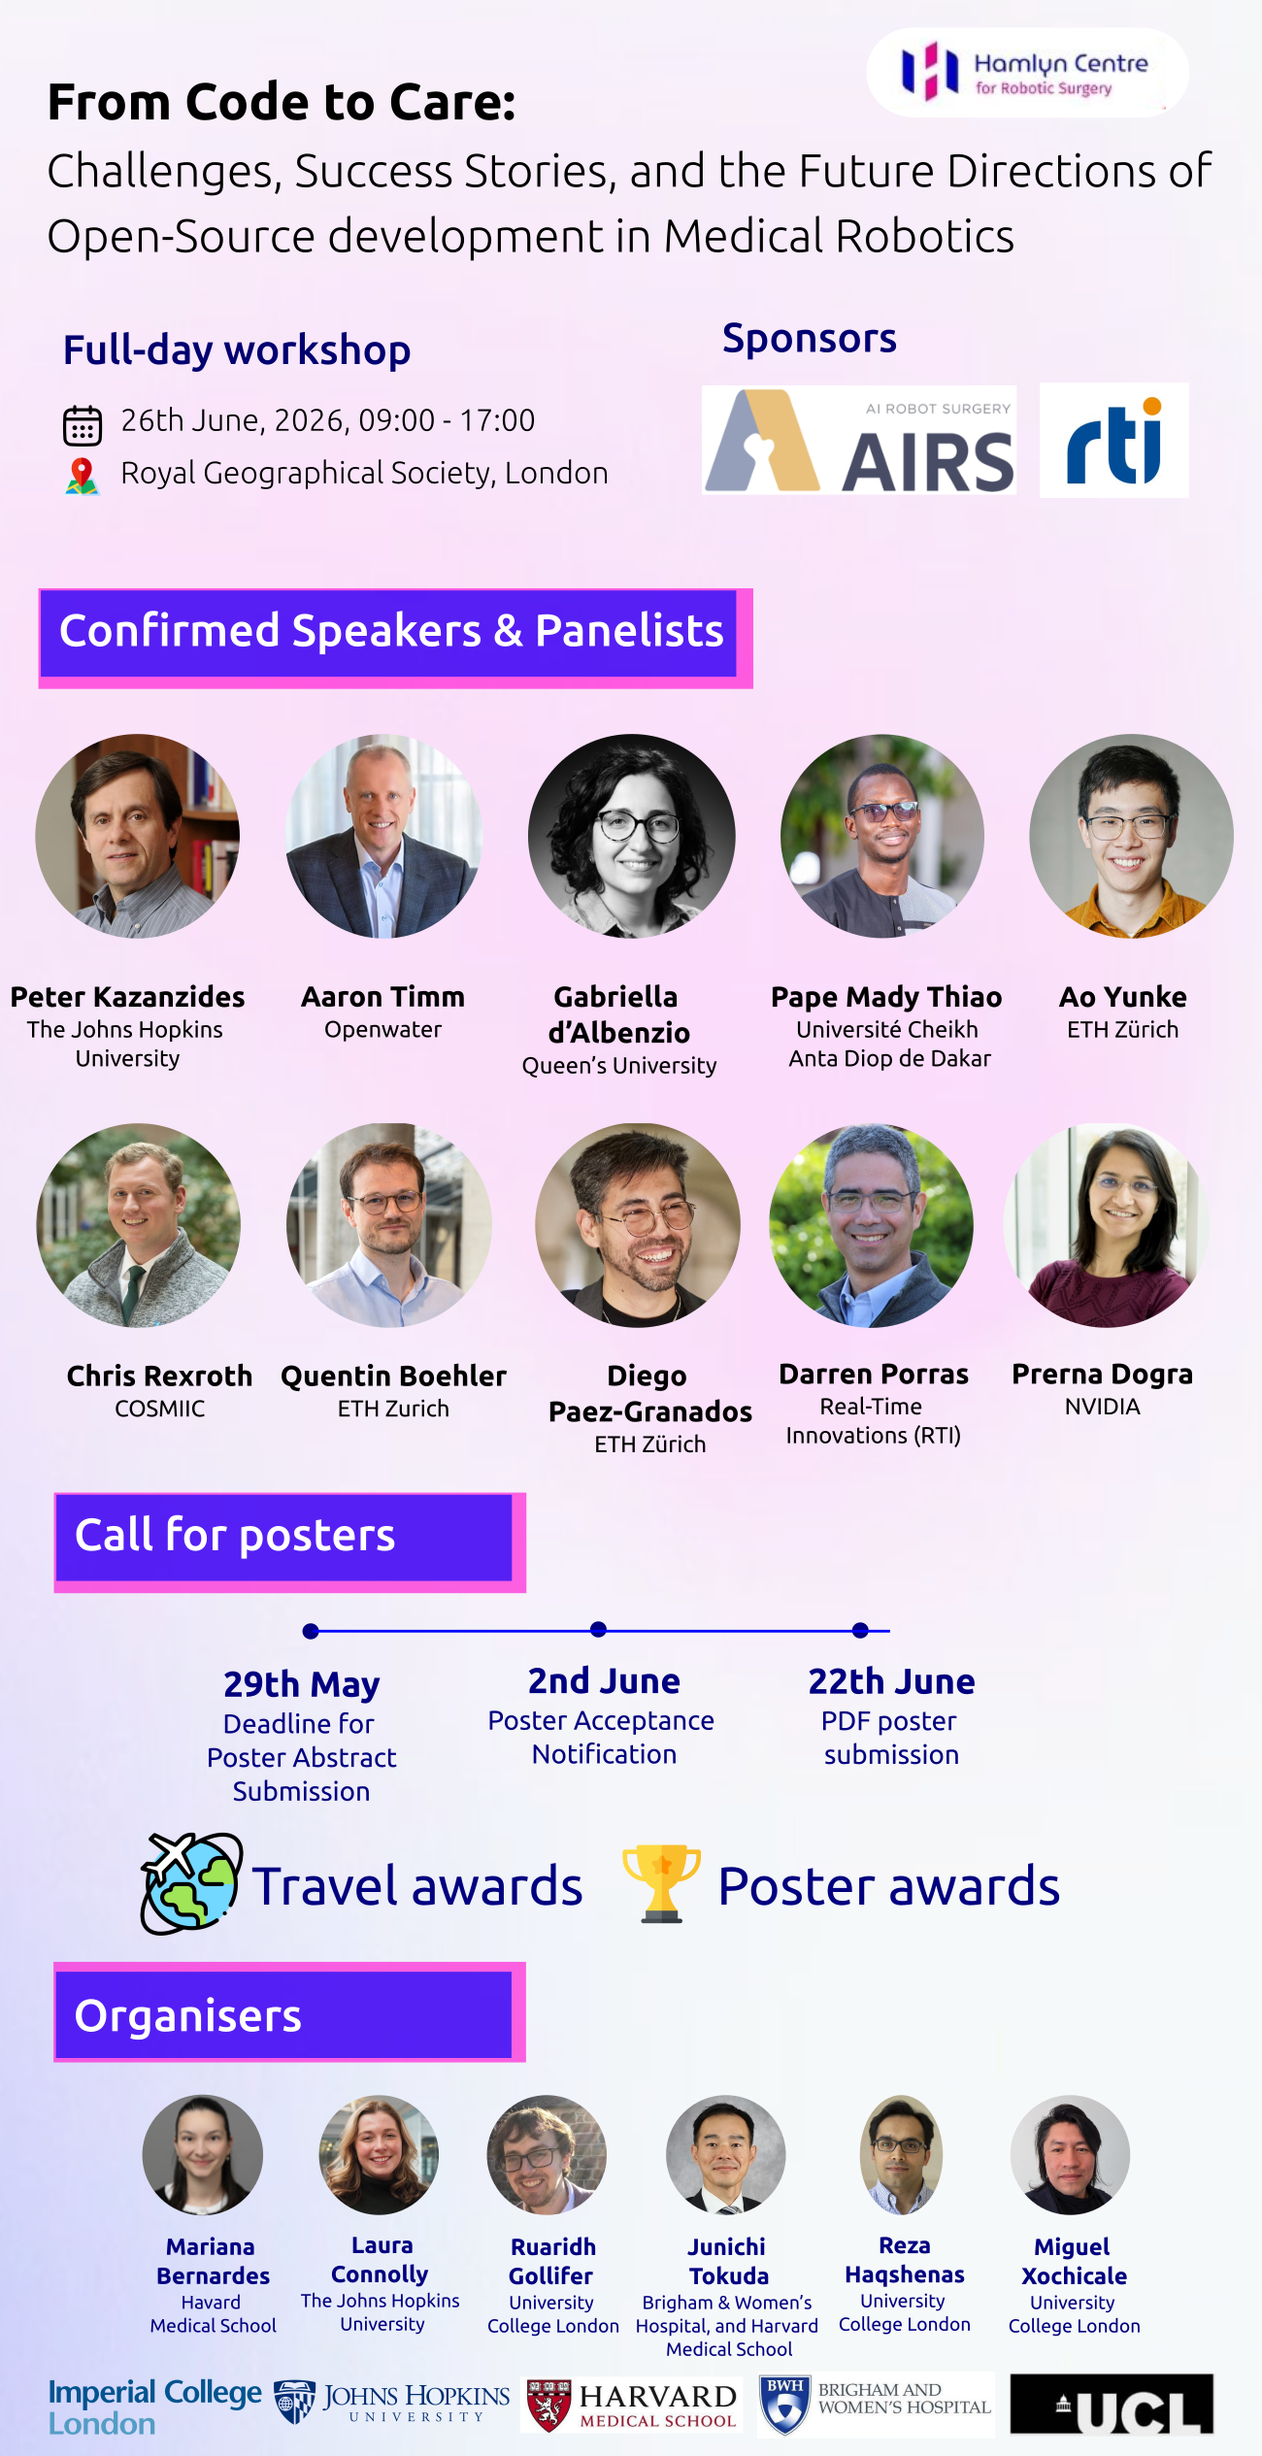
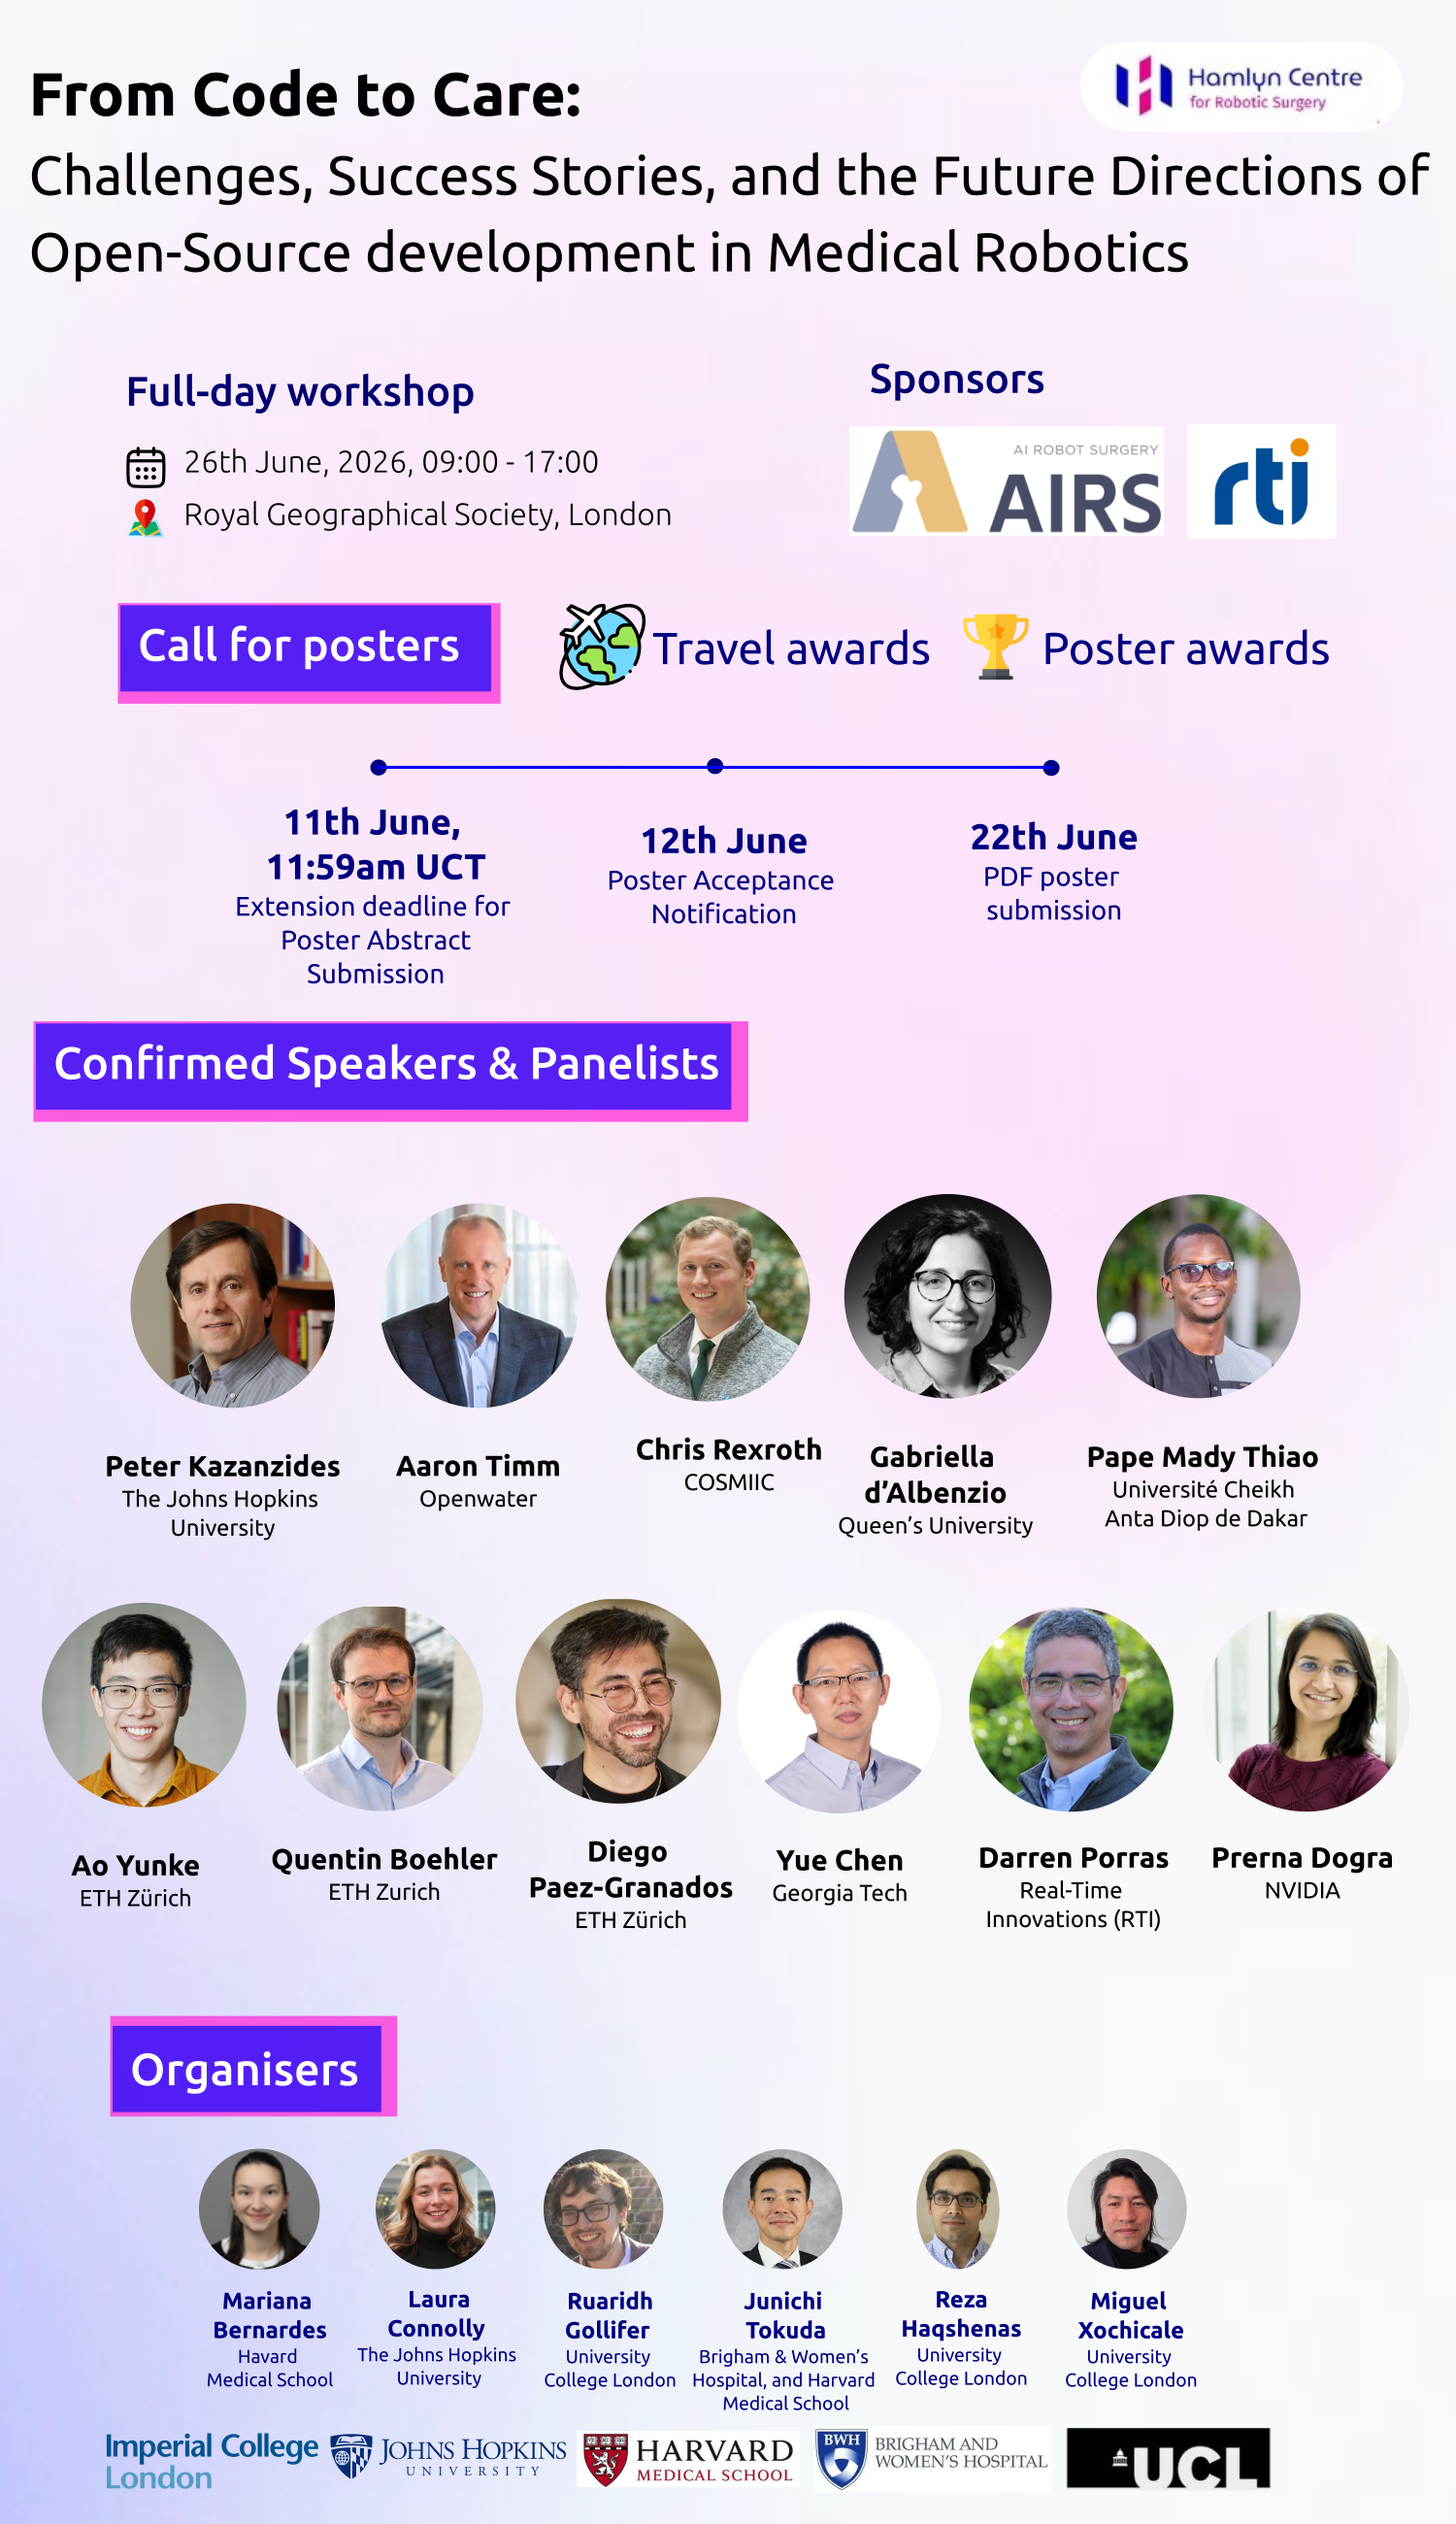
updates text and poster (#7)

diff --git a/docs/promo-kits/README.md b/docs/promo-kits/README.md
@@ -91,17 +91,26 @@ https://www.linkedin.com/posts/activity-7460385894550626304-kRFD
 
 ## Poster extension (re-positng/sharing)
 
+📢 Extended Call for Abstracts: From Code to Care Workshop @ #HSM26 Submission deadline: 11 June 2026, 11:59 AM (UTC+0)
 
-📢 Exciting news! The abstract submission deadline for our full-day workshop, "From Code to Care: Challenges, Success Stories, and the Future Directions of Open-Source development in Medical Robotics", has been extended to 12 June 2026, 12:00 PM (UTC+0).
+This extension gives you more time to share your latest research, software, tools, and experiences and contribute to a critical discussion on how open-source technologies are transforming healthcare.
 
-🎯 Don’t miss this unique opportunity to connect, collaborate, and innovate! Spaces are limited and going fast, so be sure to register by 15 June to secure your place.
+Why join us?
+Innovate & Collaborate: Connect with the global experts defining the future of open-source medical robotics.
+Get Recognized: Showcase your research for a chance to win Best Poster Prizes.
+Access Support: Apply for travel awards designed to bring the brightest minds to London.
 
-⚠ Please note: There will be no on-site registration, so book early to avoid disappointment.
+Key Dates:
+🗓 Extended Abstract Submission: 11 June 2026, 11:59 AM (UTC+0)
+🗓 Workshop Registration: 15 June 2026
+🗓 Workshop Event: 26 June 2026
 
-👉 Sign up today:
+⚠ Important: Space is strictly limited. There will be no on-site registration, so please secure your spot online by 15 June.
+
+👉 Submit your abstract and register here: 
 https://www.hamlynsymposium.org/events/from-code-to-care-challenges-success-stories-and-the-future-directions-of-open-source-development-in-medical-robotics/
 
-#HamlynSymposium #OpenSource #BiomedicalTech #SurgicalInnovation #AI #Collaboration #CallForPosters #LondonEvents #HSM26 #MedicalRobotics #SurgicalRobotics
+#MedicalRobotics #OpenSource #RoboticsResearch #HealthTech #Innovation #CallForPapers #HamlynSymposium #SurgicalInnovation #AI #Collaboration #CallForPosters #LondonEvents #HSM26
 
 ## Social media message template with hashtags
 
